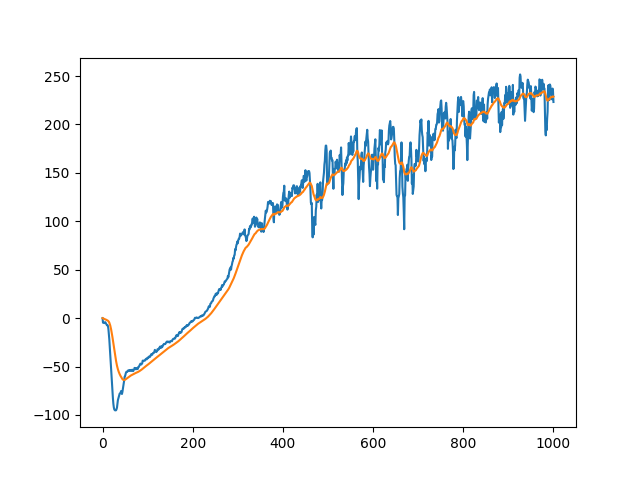
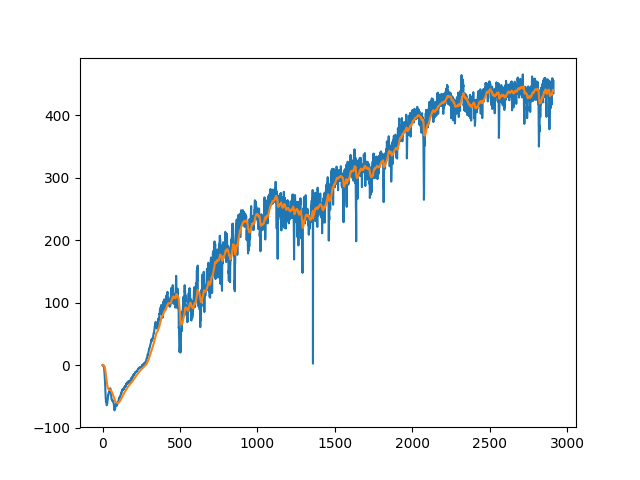
Fix env_runner & add new figures

diff --git a/a2c/discrete/train.py b/a2c/discrete/train.py
@@ -13,11 +13,11 @@ import argparse
 #-------------------------
 # Make an environment
 #-------------------------
-def make_env(rank, env_id="CartPole-v0", rand_seed=0):
+def make_env(rank, env_id="CartPole-v0", rand_seed=0, unwrap=False):
 	def _thunk():
 		env = gym.make(env_id)
+		if unwrap: env = env.unwrapped
 		env.seed(rand_seed + rank)
-		#env = env_wrapper.ClipRewardEnv(env)
 		
 		return env
 
@@ -29,6 +29,7 @@ def make_env(rank, env_id="CartPole-v0", rand_seed=0):
 parser = argparse.ArgumentParser()
 parser.add_argument("--env", default="CartPole-v0")
 parser.add_argument("--render", action="store_true")
+parser.add_argument("--unwrap", action="store_true")
 args = parser.parse_args()
 
 
@@ -38,10 +39,10 @@ n_env = 16
 n_step = 8
 mb_size = n_env*n_step
 gamma = 0.99
-value_weight = 0.5
 ent_weight = 0.05
 max_grad_norm=0.5
-lr = 7e-4
+actor_lr = 1e-4
+critic_lr = 7e-4
 lr_decay = 0.99
 eps = 1e-5
 n_iter = 300000
@@ -54,7 +55,7 @@ save_dir = "./save_" + env_id
 
 #Create multiple environments
 #----------------------------
-env = MultiEnv([make_env(i, env_id=env_id) for i in range(n_env)])
+env = MultiEnv([make_env(i, env_id=env_id, unwrap=args.unwrap) for i in range(n_env)])
 a_dim = env.ac_space.n
 s_dim = env.ob_space.shape[0]
 runner = MultiEnvRunner(env, s_dim, n_step, gamma)
@@ -79,25 +80,34 @@ policy = PolicyModel(sess, s_dim, a_dim)
 action_ph = tf.placeholder(tf.int32, [None])
 adv_ph = tf.placeholder(tf.float32, [None])
 discount_return_ph = tf.placeholder(tf.float32, [None])
-lr_ph = tf.placeholder(tf.float32, [])
+actor_lr_ph = tf.placeholder(tf.float32, [])
+critic_lr_ph = tf.placeholder(tf.float32, [])
 
 
 #Loss
 #----------------------------
 nll_loss = -policy.cat_dist.log_prob(action_ph)
 pg_loss = tf.reduce_mean(adv_ph * nll_loss)
-value_loss = tf.reduce_mean(tf.squared_difference(tf.squeeze(policy.value), discount_return_ph) / 2.0)
 entropy_bonus = tf.reduce_mean(policy.cat_dist.entropy())
-loss = pg_loss + value_weight*value_loss - ent_weight*entropy_bonus
+actor_loss = pg_loss - ent_weight*entropy_bonus
+critic_loss = tf.reduce_mean(tf.squared_difference(tf.squeeze(policy.value), discount_return_ph) / 2.0)
 
 
 #Optimizer
 #----------------------------
 t_var = tf.trainable_variables()
-grads = tf.gradients(loss, t_var)
-grads, grad_norm = tf.clip_by_global_norm(grads, max_grad_norm)
-grads = list(zip(grads, t_var))
-opt = tf.train.RMSPropOptimizer(lr_ph, decay=lr_decay, epsilon=eps).apply_gradients(grads)
+actor_var = tf.get_collection(tf.GraphKeys.TRAINABLE_VARIABLES, scope="policy/actor")
+critic_var = tf.get_collection(tf.GraphKeys.TRAINABLE_VARIABLES, scope="policy/critic")
+
+actor_grads = tf.gradients(actor_loss, actor_var)
+actor_grads, actor_grad_norm = tf.clip_by_global_norm(actor_grads, max_grad_norm)
+actor_grads = list(zip(actor_grads, actor_var))
+actor_opt = tf.train.RMSPropOptimizer(actor_lr_ph, decay=lr_decay, epsilon=eps).apply_gradients(actor_grads)
+
+critic_grads = tf.gradients(critic_loss, critic_var)
+critic_grads, critic_grad_norm = tf.clip_by_global_norm(critic_grads, max_grad_norm)
+critic_grads = list(zip(critic_grads, critic_var))
+critic_opt = tf.train.RMSPropOptimizer(critic_lr_ph, decay=lr_decay, epsilon=eps).apply_gradients(critic_grads)
 
 tf.contrib.slim.model_analyzer.analyze_vars(t_var, print_info=True)
 
@@ -134,27 +144,28 @@ for it in range(global_step, n_iter+global_step+1):
 	mb_advs = mb_discount_returns - mb_values
 
 	#Train
-	cur_pg_loss, cur_value_loss, cur_ent, _ = sess.run([pg_loss, value_loss, entropy_bonus, opt], feed_dict={
+	cur_actor_loss, cur_critic_loss, cur_ent, _, _ = sess.run([actor_loss, critic_loss, entropy_bonus, actor_opt, critic_opt], feed_dict={
 		policy.ob_ph: mb_obs,
 		action_ph: mb_actions,
 		adv_ph: mb_advs,
 		discount_return_ph: mb_discount_returns,
-		lr_ph: lr
+		actor_lr_ph: actor_lr,
+		critic_lr_ph: critic_lr
 	})
 
 	#Show the result
-	if it % disp_step == 0:
+	if it % disp_step == 0 and it > global_step:
 		n_sec = time.time() - t_start
 		fps = int((it-global_step)*n_env*n_step / n_sec)
 		avg_r = sum(avg_return) / disp_step
 
-		print("[{:5d} / {:5d}]".format(it, n_iter))
+		print("[{:5d} / {:5d}]".format(it, n_iter+global_step))
 		print("----------------------------------")
 		print("Total timestep = {:d}".format(it * mb_size))
 		print("Elapsed time = {:.2f} sec".format(n_sec))
 		print("FPS = {:d}".format(fps))
-		print("pg_loss = {:.6f}".format(cur_pg_loss))
-		print("value_loss = {:.6f}".format(cur_value_loss))
+		print("actor_loss = {:.6f}".format(cur_actor_loss))
+		print("critic_loss = {:.6f}".format(cur_critic_loss))
 		print("entropy = {:.6f}".format(cur_ent))
 		print("Avg return = {:.6f}".format(avg_r))
 		print()

diff --git a/a2c/discrete/policy_model.py b/a2c/discrete/policy_model.py
@@ -9,30 +9,41 @@ class PolicyModel(object):
 	def __init__(self, sess, s_dim, a_dim, reuse=False):
 		self.sess = sess
 
-		with tf.variable_scope("policy_model", reuse=reuse):
+		with tf.variable_scope("policy", reuse=reuse):
 			#ob_ph: (mb_size, s_dim)
 			self.ob_ph = tf.placeholder(tf.float32, [None, s_dim])
 
-			#fc1: (mb_size, 64)
-			h = ops.fc(self.ob_ph, 64, name="fc1")
-			h = tf.nn.relu(h)
-			
-			#fc2: (mb_size, 128)
-			h = ops.fc(h, 128, name="fc2")
-			h = tf.nn.relu(h)
-			
-			#fc3: (mb_size, 128)	
-			h = ops.fc(h, 128, name="fc3")
-			h = tf.nn.relu(h)
-			
-			#fc4: (mb_size, 64)
-			h = ops.fc(h, 64, name="fc4")
-			h = tf.nn.relu(h)
+			with tf.variable_scope("actor", reuse=reuse):
+				#fc1: (mb_size, 64)
+				h = ops.fc(self.ob_ph, 64, name="a_fc1")
+				h = tf.nn.relu(h)
+				
+				#fc2: (mb_size, 128)
+				h = ops.fc(h, 128, name="a_fc2")
+				h = tf.nn.relu(h)
+				
+				#fc3: (mb_size, 128)	
+				h = ops.fc(h, 128, name="a_fc3")
+				h = tf.nn.relu(h)
 
-			#pi:     (mb_size, a_dim)
-			#value:  (mb_size, 1)
-			pi = ops.fc(h, a_dim, name="fc_pi")
-			value = ops.fc(h, 1, name="fc_value")
+				#pi:     (mb_size, a_dim)
+				pi = ops.fc(h, a_dim, name="a_fc_pi")
+
+			with tf.variable_scope("critic", reuse=reuse):
+				#fc1: (mb_size, 64)
+				h = ops.fc(self.ob_ph, 64, name="c_fc1")
+				h = tf.nn.relu(h)
+				
+				#fc2: (mb_size, 128)
+				h = ops.fc(h, 128, name="c_fc2")
+				h = tf.nn.relu(h)
+				
+				#fc3: (mb_size, 128)	
+				h = ops.fc(h, 128, name="c_fc3")
+				h = tf.nn.relu(h)
+
+				#value:  (mb_size, 1)
+				value = ops.fc(h, 1, name="c_fc_value")
 		
 		#value:  (mb_size)
 		#action: (mb_size)

diff --git a/a2c/conti/train.py b/a2c/conti/train.py
@@ -13,11 +13,11 @@ import argparse
 #-------------------------
 # Make an environment
 #-------------------------
-def make_env(rank, env_id="BipedalWalker-v2", rand_seed=0):
+def make_env(rank, env_id="BipedalWalker-v2", rand_seed=0, unwrap=False):
 	def _thunk():
 		env = gym.make(env_id)
+		if unwrap: env = env.unwrapped
 		env.seed(rand_seed + rank)
-		#env = env_wrapper.ModifiedRewardEnv(env)
 		
 		return env
 
@@ -29,6 +29,7 @@ def make_env(rank, env_id="BipedalWalker-v2", rand_seed=0):
 parser = argparse.ArgumentParser()
 parser.add_argument("--env", default="BipedalWalker-v2")
 parser.add_argument("--render", action="store_true")
+parser.add_argument("--unwrap", action="store_true")
 args = parser.parse_args()
 
 

diff --git a/a2c/conti/env_runner.py b/a2c/conti/env_runner.py
@@ -41,8 +41,9 @@ class MultiEnvRunner:
 		#1. Run n steps
 		#-------------------------------------
 		for step in range(self.n_step):
-			#actions: (n_env, a_dim)
+			#actions: (n_env)
 			#values:  (n_env)
+			#obs: (n_env, s_dim)
 			actions, values = policy.step(self.obs)
 			mb_obs.append(np.copy(self.obs))
 			mb_values.append(values)
@@ -54,9 +55,6 @@ class MultiEnvRunner:
 			self.obs, rewards, dones, info = self.env.step(actions)
 			mb_rewards.append(rewards)
 			mb_dones.append(dones)
-
-			for i, done in enumerate(dones):
-				if done: self.obs[i] = self.obs[i] * 0
 
 		#last_values: (n_env)
 		last_values = policy.value_step(self.obs).tolist()

diff --git a/a2c/discrete/env_runner.py b/a2c/discrete/env_runner.py
@@ -42,6 +42,7 @@ class MultiEnvRunner:
 		for step in range(self.n_step):
 			#actions: (n_env)
 			#values:  (n_env)
+			#obs: (n_env, s_dim)
 			actions, values = policy.step(self.obs)
 			mb_obs.append(np.copy(self.obs))
 			mb_values.append(values)
@@ -53,9 +54,6 @@ class MultiEnvRunner:
 			self.obs, rewards, dones, info = self.env.step(actions)
 			mb_rewards.append(rewards)
 			mb_dones.append(dones)
-
-			for i, done in enumerate(dones):
-				if done: self.obs[i] = self.obs[i] * 0
 
 		#last_values: (n_env)
 		last_values = policy.value_step(self.obs).tolist()

diff --git a/a2c/discrete/play.py b/a2c/discrete/play.py
@@ -10,6 +10,7 @@ import argparse
 #----------------------------
 parser = argparse.ArgumentParser()
 parser.add_argument("--env", default="CartPole-v0")
+parser.add_argument("--unwrap", action="store_true")
 args = parser.parse_args()
 
 
@@ -22,6 +23,7 @@ save_dir = "./save_" + env_id
 #Create the environment
 #----------------------------
 env = gym.make(env_id)
+if args.unwrap: env = env.unwrapped
 a_dim = env.action_space.n
 s_dim = env.observation_space.shape[0]
 

diff --git a/a2c/atari/policy_model.py b/a2c/atari/policy_model.py
@@ -9,7 +9,7 @@ class PolicyModel(object):
 	def __init__(self, sess, img_height, img_width, c_dim, a_dim, reuse=False):
 		self.sess = sess
 
-		with tf.variable_scope("policy_model", reuse=reuse):
+		with tf.variable_scope("policy", reuse=reuse):
 			#ob_ph: (mb_size, img_height, img_width, c_dim)
 			self.ob_ph = tf.placeholder(tf.uint8, (None, img_height, img_width, c_dim))
 			ob_normalized = tf.cast(self.ob_ph, tf.float32) / 255.0

diff --git a/a2c/atari/train.py b/a2c/atari/train.py
@@ -152,7 +152,7 @@ for it in range(global_step, n_iter+global_step+1):
 		fps = int((it-global_step)*n_env*n_step / n_sec)
 		avg_r = sum(avg_return) / disp_step
 
-		print("[{:5d} / {:5d}]".format(it, n_iter))
+		print("[{:5d} / {:5d}]".format(it, n_iter+global_step))
 		print("----------------------------------")
 		print("Total timestep = {:d}".format(it * mb_size))
 		print("Elapsed time = {:.2f} sec".format(n_sec))

diff --git a/README.md b/README.md
@@ -8,6 +8,7 @@ The implementation is based on [OpenAI Baselines](https://github.com/openai/base
 
 - tensorflow-1.8.0
 - gym-0.10.5
+- mujoco-py-1.50.1 (optional)
 
 <br>
 
@@ -19,11 +20,22 @@ The implementation is based on [OpenAI Baselines](https://github.com/openai/base
 
 ## Experiment Results
 
-- BipedalWalker-v2
+### Discrete:
 
-![](./fig/BipedalWalker-v2.png)
+- CartPole-v0
+
+![](./fig/CartPole-v0.png)
 
 <br>
+
+- MountainCar-v0
+
+![](./fig/MountainCar-v0.png)
+
+<br>
+<br>
+
+### Atari (Discrete):
 
 - BreakoutNoFrameskip-v4
 
@@ -37,6 +49,21 @@ The implementation is based on [OpenAI Baselines](https://github.com/openai/base
 
 <br>
 
-- CartPole-v0
+- SpaceInvadersNoFrameskip-v4
 
-![](./fig/CartPole-v0.png)
+![](./fig/SpaceInvadersNoFrameskip-v4.png)
+
+<br>
+<br>
+
+### Continuous:
+
+- InvertedPendulum-v2
+
+![](./fig/InvertedPendulum-v2.png)
+
+<br>
+
+- BipedalWalker-v2
+
+![](./fig/BipedalWalker-v2.png)
